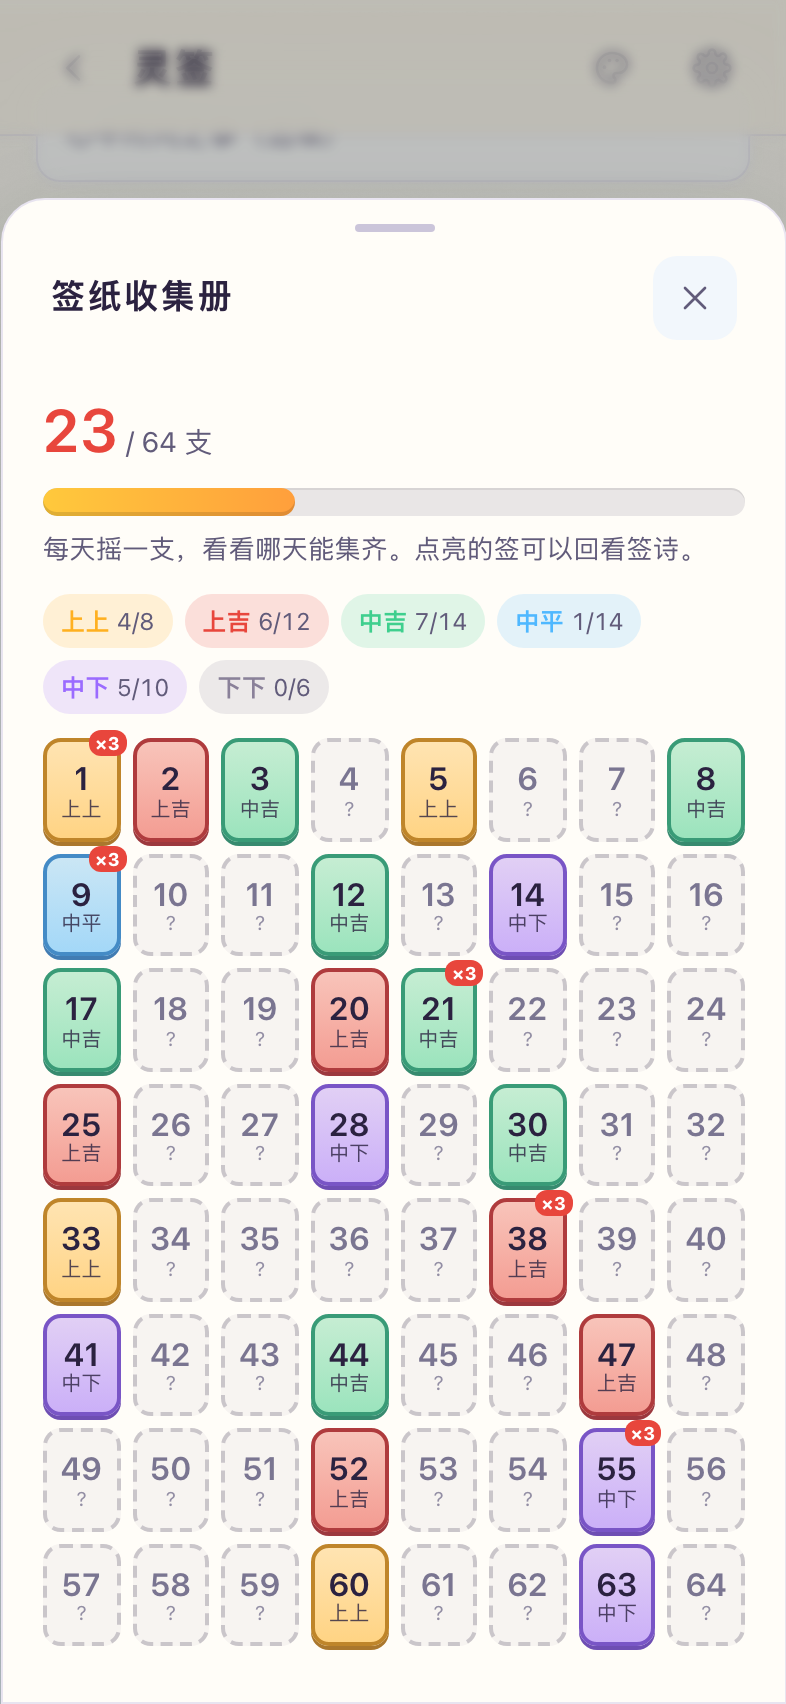
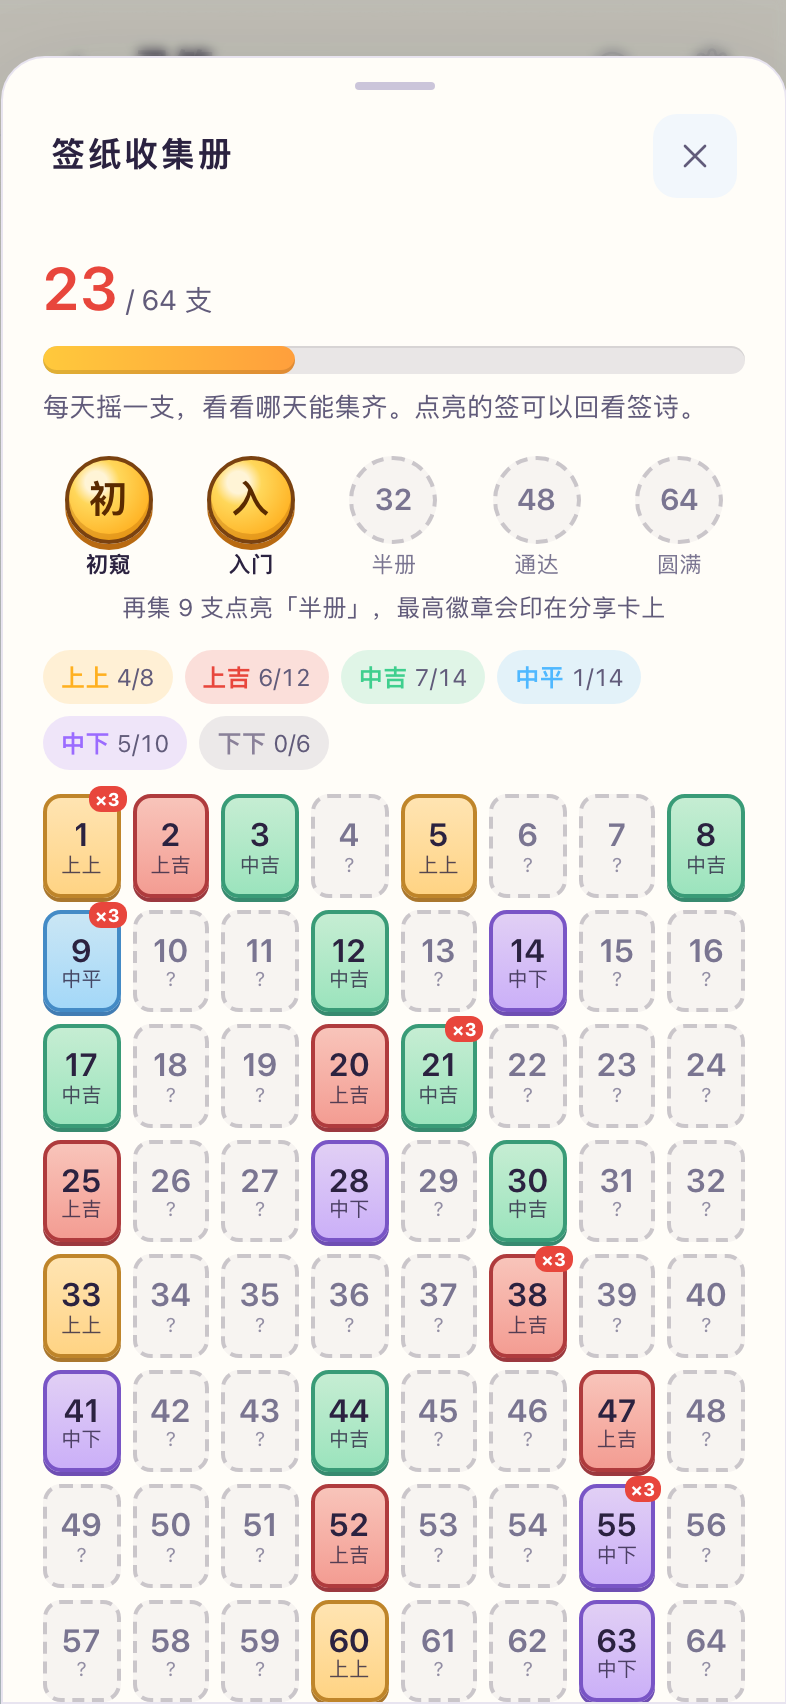
签册里程碑徽章：五档徽章、彩屑庆祝、分享卡印徽章
- album.js 新增 MILESTONES（8/16/32/48/64）、badgeOf、crossedMilestone、completedLevel
- 灵签页跨过里程碑时迸出金色彩屑并提示，集齐某一等级时提示
- 收集册顶部 5 枚徽章，新解锁的第一次打开时弹一下，集齐的等级标签加 ✓
- 所有分享卡右上角印「签册 · 名字」金章胶囊（集到 8 支起）
- 单元测试 4 项、e2e 1 项，album-shots 增加分享卡截图

Claude-Session: https://claude.ai/code/session_01RPCG4sUy8bX3S2uLgA1D94

diff --git a/src/modules/qian/view.js b/src/modules/qian/view.js
@@ -1,6 +1,6 @@
 import { createStickScene } from '../../ui/stick-scene.js';
 import { drawLot, getLot, lotLabel, formatPoemLines, levelMeta, createShakeMeter, shareText, isFated } from './core.js';
-import { normalizeAlbum, backfillAlbum, collectLot, albumStats } from './album.js';
+import { normalizeAlbum, backfillAlbum, collectLot, albumStats, crossedMilestone, completedLevel, badgeOf, MILESTONES } from './album.js';
 import {
   ITEM_KEYS, QUESTION_PLACEHOLDER, IDLE_HINT, SHAKING_HINT, SENSOR_HINT, DRAWN_HINT, UNFOLD_HINT, REVEALED_HINT,
   IDLE_BADGE, SHAKING_BADGE, SHEET_TITLE, FOOTER, TAKE_LABEL, SHAKE_LABEL, AGAIN_LABEL, SHARE_LABEL,
@@ -107,9 +107,20 @@ export function mount(container, ctx) {
     sound.play('chime'); haptic.success(); st.setBadge(`${lotLabel(lot)} · ${lot.level}`);
     const fated = isFated(history, lot.no);
     history = history.concat({ no: lot.no, question: asked, date: ctx.rng.dateKey() }).slice(-8); storage.set('history', history); renderHistory();
+    const before = album, prevCount = albumStats(before).count;
     const got = collectLot(album, lot.no, ctx.rng.dateKey()); album = got.album; storage.set('album', album); renderHistory();
-    if (fated) kit.toast(FATED_TOAST);
-    else if (got.fresh) { const s = albumStats(album); kit.toast(s.complete ? `收集册集齐了 · ${s.total} 支签` : `新签入册 · ${s.count}/${s.total}`); }
+    const s = albumStats(album);
+    const mile = got.fresh ? crossedMilestone(prevCount, s.count) : null;
+    const levelDone = got.fresh ? completedLevel(before, album) : null;
+    if (mile) {
+      // 里程碑：金星彩屑 + 徽章提示，下次打开收集册时新徽章跳一下。
+      storage.set('badgeNew', mile.id);
+      kit.confetti(st.el, { count: mile.stars, colors: ['#ffc93c', '#ff9f3c', '#fff4d6', '#e8463c', '#4fb8ff'], origin: { x: 0.5, y: 0.42 }, spread: 240 });
+      haptic.success();
+      kit.toast(s.complete ? `收集册集齐了 · 解锁「${mile.name}」徽章` : `解锁签册徽章「${mile.name}」 · 分享卡会带上它`, { duration: 2600 });
+    } else if (fated) kit.toast(FATED_TOAST);
+    else if (levelDone) kit.toast(`${levelDone}签全部集齐 · ${s.count}/${s.total}`, { duration: 2400 });
+    else if (got.fresh) kit.toast(`新签入册 · ${s.count}/${s.total}`);
     if (!await ritual.pause(gentle || instant ? 80 : 900)) return;
     phase = 'paper'; primary.setLabel(AGAIN_LABEL); lock(false); setGuide('tap', REVEALED_HINT);
     const result = lot, resultQuestion = asked;
@@ -160,7 +171,19 @@ export function mount(container, ctx) {
     if (busy || reading || albumSheet) return;
     haptic.tap();
     const s = albumStats(album);
-    const levels = h('div', { class: 'qn-album-levels' }, s.byLevel.map((x) => h('span', { class: `qn-album-level tone-${x.tone}` }, h('b', null, x.id), ` ${x.have}/${x.total}`)));
+    const levels = h('div', { class: 'qn-album-levels' }, s.byLevel.map((x) => h('span', { class: `qn-album-level tone-${x.tone}${x.total && x.have === x.total ? ' done' : ''}` }, h('b', null, x.id), ` ${x.have}/${x.total}`)));
+    // 徽章行：5 枚，点亮的是金色描边圆章，没到的是灰色虚线圆和所需数量。刚解锁的那枚跳一下。
+    const fresh = storage.get('badgeNew', '');
+    if (fresh) storage.set('badgeNew', '');
+    const next = MILESTONES.find((m) => s.count < m.at);
+    const badges = h('div', { class: 'qn-badges', attrs: { role: 'list', 'aria-label': '签册徽章' } }, MILESTONES.map((m) => {
+      const on = s.count >= m.at;
+      return h('span', { class: `qn-badge${on ? ' on' : ''}${on && m.id === fresh ? ' pop' : ''}`, dataset: { badge: m.id }, attrs: { role: 'listitem', 'aria-label': on ? `徽章「${m.name}」已点亮` : `集到 ${m.at} 支点亮「${m.name}」` } },
+        h('i', null, on ? m.name[0] : String(m.at)), h('small', null, m.name));
+    }));
+    const badgeNote = h('p', { class: 'qn-badge-note' }, next
+      ? `再集 ${next.at - s.count} 支点亮「${next.name}」${badgeOf(s.count) ? '，最高徽章会印在分享卡上' : ''}`
+      : '五枚徽章全部点亮，分享卡上印着「圆满」。');
     const grid = h('div', { class: 'qn-album-grid', attrs: { role: 'list' } });
     for (let no = 1; no <= s.total; no++) {
       const l = getLot(no), have = album[no];
@@ -174,7 +197,7 @@ export function mount(container, ctx) {
       h('div', null, h('b', null, `${s.count}`), h('span', null, ` / ${s.total} 支`)),
       h('span', { class: 'qn-album-bar big' }, h('i', { style: { width: `${(s.count / s.total) * 100}%` } })),
       h('p', null, s.complete ? '六十四支签全部集齐，诸事圆满。' : s.count ? '每天摇一支，看看哪天能集齐。点亮的签可以回看签诗。' : '还没有收到签。摇一支签，它就会收进册子里。'));
-    albumSheet = sheet({ title: '签纸收集册', content: [head, levels, grid], onClose: () => { albumSheet = null; } });
+    albumSheet = sheet({ title: '签纸收集册', content: [head, badges, badgeNote, levels, grid], onClose: () => { albumSheet = null; } });
     albumSheet.open();
   }
   // 从首页「收集册」入口进来：#/m/qian/album 直接打开册子。

diff --git a/src/ui/share-card.js b/src/ui/share-card.js
@@ -81,8 +81,27 @@ function roundRect(g, x, y, w, hh, r) {
 
 const font = (size, weight = 700) => `${weight} ${size}px ${FONT}`;
 
-/** 画分享卡，返回 1080 宽的画布（高度随文字变化，至少 1350，文字行数有上限所以不超过约 2100）。 */
-export function drawShareCard({ heading, sub = '', lines = [], image = null, watermark = true, date = new Date() }, doc = document) {
+/** 签册徽章：白底胶囊 + 金色描边圆章（徽章名首字）+「签册 · 名字」，右端对齐到 right。 */
+export function drawBadge(g, name, right, cy) {
+  g.font = font(30, 800);
+  const label = `签册 · ${name}`, tw = g.measureText(label).width;
+  const r = 30, w = r * 2 + 16 + tw + 26, x = right - w, top = cy - 36;
+  g.fillStyle = 'rgba(184,106,18,.55)'; roundRect(g, x, top + 5, w, 72, 36); g.fill();
+  g.fillStyle = '#fff'; roundRect(g, x, top, w, 72, 36); g.fill();
+  g.strokeStyle = '#ffc93c'; g.lineWidth = 4; roundRect(g, x, top, w, 72, 36); g.stroke();
+  const cx = x + 6 + r, ccy = cy;
+  g.fillStyle = '#b86a12'; g.beginPath(); g.arc(cx, ccy + 3, r - 2, 0, Math.PI * 2); g.fill();
+  const coin = g.createRadialGradient(cx - 9, ccy - 10, 2, cx, ccy, r); coin.addColorStop(0, '#fff4d6'); coin.addColorStop(.35, '#ffd75a'); coin.addColorStop(1, '#ffb020');
+  g.fillStyle = coin; g.beginPath(); g.arc(cx, ccy, r - 3, 0, Math.PI * 2); g.fill();
+  g.strokeStyle = '#7a4210'; g.lineWidth = 3.5; g.stroke();
+  g.fillStyle = '#5a2a00'; g.font = font(30, 800); g.textAlign = 'center'; g.textBaseline = 'middle';
+  g.fillText([...name][0], cx, ccy + 1);
+  g.textAlign = 'left'; g.fillStyle = C.ink; g.fillText(label, cx + r + 14, cy);
+  return w;
+}
+
+/** 画分享卡，返回 1080 宽的画布（高度随文字变化，至少 1350，文字行数有上限所以不超过约 2100）。badge 是签册徽章 { name }。 */
+export function drawShareCard({ heading, sub = '', lines = [], image = null, watermark = true, badge = null, date = new Date() }, doc = document) {
   const canvas = doc.createElement('canvas');
   const g = canvas.getContext('2d');
   const cardX = 48, cardW = CARD_W - 96, inner = cardW - 96;
@@ -113,8 +132,11 @@ export function drawShareCard({ heading, sub = '', lines = [], image = null, wat
   g.fillStyle = btn; roundRect(g, PAD, 64, bw, 84, 28); g.fill();
   g.fillStyle = '#fff'; g.textBaseline = 'middle'; g.fillText(brand, PAD + 32, 107);
   g.font = font(32, 600); g.fillStyle = C.soft; g.textAlign = 'right';
-  g.fillText(`${date.getFullYear()}.${date.getMonth() + 1}.${date.getDate()}`, CARD_W - PAD, 107);
+  const dateText = `${date.getFullYear()}.${date.getMonth() + 1}.${date.getDate()}`;
+  g.fillText(dateText, CARD_W - PAD, 107);
+  const dateW = g.measureText(dateText).width;
   g.textAlign = 'left';
+  if (badge?.name) drawBadge(g, badge.name, CARD_W - PAD - dateW - 28, 107);
 
   // 白卡 + 厚度边
   g.fillStyle = C.edge; roundRect(g, cardX, cardY + 10, cardW, cardH, 48); g.fill();
@@ -173,7 +195,7 @@ export function drawShareCard({ heading, sub = '', lines = [], image = null, wat
 const RESULT_TEXT = { shared: '已分享', copied: '已复制', saved: '图片已保存', failed: '分享已取消' };
 
 /** 预览抽屉：分享图片 / 只分享文字。免费版有「开通 Pro 去水印」。 */
-export function openShareCard(platform, text, { title = '分享', image: art = null } = {}) {
+export function openShareCard(platform, text, { title = '分享', image: art = null, badge = null } = {}) {
   const parsed = parseShare(text);
   // 玩法自带配图（塔罗牌面、黄历宜忌等）优先，没有再拍当前器物画面
   let image = art ? null : captureStage();
@@ -182,7 +204,7 @@ export function openShareCard(platform, text, { title = '分享', image: art = n
   let url = '';
   const img = h('img', { class: 'share-card-img', attrs: { alt: `分享卡：${parsed.heading}` } });
   const render = () => {
-    try { url = drawShareCard({ ...parsed, image, watermark: !isPro() }).toDataURL('image/png'); img.src = url; }
+    try { url = drawShareCard({ ...parsed, image, badge, watermark: !isPro() }).toDataURL('image/png'); img.src = url; }
     catch (e) { console.warn('[share] 分享卡生成失败', e); url = ''; }
   };
   render();

diff --git a/src/styles/collect.css b/src/styles/collect.css
@@ -28,3 +28,16 @@
 .home-streak .qn-album-bar { height: 8px; }
 .home-streak-album { flex: none; font: 700 12px var(--font-sans); color: var(--text-2); font-variant-numeric: tabular-nums; }
 .home-streak > svg { flex: none; color: var(--text-3); }
+/* 签册徽章：5 枚一行，点亮的是金色描边圆章 + 厚度边，没到的是虚线圆和所需数量 */
+.qn-badges { display: grid; grid-template-columns: repeat(5, minmax(0, 1fr)); gap: 6px; margin: 14px 0 4px; }
+.qn-badge { display: flex; flex-direction: column; align-items: center; gap: 4px; min-width: 0; }
+.qn-badge i { display: grid; place-items: center; width: 44px; height: 44px; border-radius: 50%; font: 800 15px/1 var(--font-round, var(--font-sans)); font-style: normal; font-variant-numeric: tabular-nums; color: var(--text-3); border: 2px dashed color-mix(in srgb, var(--text) 22%, transparent); background: color-mix(in srgb, var(--text) 4%, transparent); }
+.qn-badge small { font-size: 11px; line-height: 1; color: var(--text-3); white-space: nowrap; }
+.qn-badge.on i { font-size: 19px; color: #5a2a00; border: 2.5px solid #7a4210; background: radial-gradient(circle at 34% 28%, #fff4d6 0 14%, #ffd75a 30%, #ffb020 78%); box-shadow: 0 3px 0 #b86a12, inset 0 -3px 0 rgba(160,80,0,.25); }
+.qn-badge.on small { color: var(--text); font-weight: 800; }
+.qn-badge.pop i { animation: qn-badge-pop .7s cubic-bezier(.34,1.56,.64,1) .25s both; }
+@keyframes qn-badge-pop { 0% { transform: scale(.4) rotate(-20deg); } 60% { transform: scale(1.18) rotate(6deg); } 100% { transform: scale(1) rotate(0); } }
+@media (prefers-reduced-motion: reduce) { .qn-badge.pop i { animation: none; } }
+.qn-badge-note { margin: 8px 0 0; font-size: 12px; line-height: 1.5; color: var(--text-2); text-align: center; }
+.qn-album-level.done { box-shadow: 0 0 0 1.5px var(--tone); }
+.qn-album-level.done::after { content: ' ✓'; color: var(--tone); font-weight: 800; }

diff --git a/src/modules/qian/album.js b/src/modules/qian/album.js
@@ -46,3 +46,33 @@ export function albumStats(album, lots = LOTS) {
   }
   return { count, total: lots.length, byLevel, complete: count === lots.length };
 }
+
+// 里程碑：集到一定数量点亮一枚签册徽章。奖励只是看得见的荣誉（徽章印在所有分享卡上、结果金星加量），
+// 不送任何付费内容，免得和内购冲突。
+export const MILESTONES = [
+  { at: 8, id: 'chu', name: '初窥', stars: 24 },
+  { at: 16, id: 'ru', name: '入门', stars: 30 },
+  { at: 32, id: 'ban', name: '半册', stars: 36 },
+  { at: 48, id: 'tong', name: '通达', stars: 42 },
+  { at: 64, id: 'man', name: '圆满', stars: 54 },
+];
+
+/** 已收数量对应的最高徽章，没到第一档返回 null。 */
+export function badgeOf(count, list = MILESTONES) {
+  let got = null;
+  for (const m of list) if (count >= m.at) got = m;
+  return got;
+}
+
+/** 从 prev 支收到 next 支时新跨过的里程碑（一次只会跨一档，防御起见取最高的）。 */
+export function crossedMilestone(prevCount, nextCount, list = MILESTONES) {
+  const a = badgeOf(prevCount, list), b = badgeOf(nextCount, list);
+  return b && b !== a ? b : null;
+}
+
+/** 收进这支签后刚好集齐的等级（如「上上」），没有返回 null。 */
+export function completedLevel(prevAlbum, nextAlbum, lots = LOTS) {
+  const before = albumStats(prevAlbum, lots).byLevel, after = albumStats(nextAlbum, lots).byLevel;
+  const hit = after.find((x, i) => x.total && x.have === x.total && before[i].have < before[i].total);
+  return hit ? hit.id : null;
+}

diff --git a/src/ui/app.js b/src/ui/app.js
@@ -14,7 +14,7 @@ import { routeFromUrl } from './deeplink.js';
 import { versionText } from './version.js';
 import { openShareCard } from './share-card.js';
 import { canUseTheme, startSkinTryOn, isFreeTheme } from './skins.js';
-import { albumStats, normalizeAlbum, ALBUM_TOTAL } from '../modules/qian/album.js';
+import { albumStats, normalizeAlbum, badgeOf, ALBUM_TOTAL } from '../modules/qian/album.js';
 import { dayKey } from '../platform/quota.js';
 
 export const APP_NAME = '来感觉';
@@ -267,7 +267,7 @@ export function startApp(root) {
       sound: platform.sound,
       storage: storage.namespace(meta.id),
       profile,
-      share: (text, opts) => openShareCard(platform, text, opts),
+      share: (text, opts) => openShareCard(platform, text, { badge: albumBadge(), ...opts }),
       navigate,
       toast,
       setTitle(text) {
@@ -386,6 +386,12 @@ export function startApp(root) {
       ),
     );
     return el;
+  }
+
+  // 签册最高徽章：所有玩法的分享卡都印上它（集到 8 支起）。
+  function albumBadge() {
+    try { return badgeOf(albumStats(normalizeAlbum(storage.namespace('qian').get('album', null))).count); }
+    catch (e) { console.error('[album]', e); return null; }
   }
 
   // 连续天数 + 签纸收集册进度：每天回来的小理由，点开直接到收集册。

diff --git a/docs/claude-plan/run-log.md b/docs/claude-plan/run-log.md
@@ -478,3 +478,33 @@
 - 断签提醒要不要做（需要新增本地通知权限，App 审核会看通知用途说明）。
 
 推送结果：提交 d6661ac 推送成功。
+
+## 第 16 轮 · 2026-10-24 04:55 UTC 起（PDT 10-23 21:55，定时任务）
+
+开始状态：工作区干净，与远端一致，.lock 为 idle。
+
+完成的待办：
+- ✅ P2 收集册里程碑奖励。奖励只给荣誉，不送付费内容，不去水印（monetization.md 第 2 节已注明）。
+  - `src/modules/qian/album.js`：`MILESTONES` 五档（8 初窥、16 入门、32 半册、48 通达、64 圆满），`badgeOf(count)` 取最高徽章，`crossedMilestone(prev, next)` 只在刚到档那一支返回，`completedLevel(before, after)` 在补上某一等级最后一支时返回该等级。
+  - 灵签页：新签跨过里程碑时舞台迸出金色彩屑（档位越高越多，系统减少动态效果时不出），震动一下，提示「解锁签册徽章「入门」 · 分享卡会带上它」。集齐某一等级时提示「上上签全部集齐 · n/64」。
+  - 收集册抽屉：进度条下一行 5 枚徽章，点亮的是金色描边圆章带厚度边，没到的是虚线圆和所需数量。刚解锁的那枚第一次打开收集册时弹一下，之后不再弹。下面一行「再集 n 支点亮「x」，最高徽章会印在分享卡上」。集齐的等级标签加描边和 ✓。
+  - 分享卡：`src/ui/share-card.js` 新增 `drawBadge`，所有玩法的分享卡右上角、日期左边印一枚「签册 · 入门」金章胶囊（集到 8 支起才有）。`src/ui/app.js` 的 `ctx.share` 自动带上最高徽章。
+  - `tests/album.test.mjs` 新增 4 项（徽章档位、跨档只触发一次、集齐等级、分享卡徽章右端对齐），`tests/e2e/album.e2e.mjs` 新增 1 项（7 支起摇到第 8 支，提示里有「初窥」，收集册里徽章点亮并弹一下，第二次打开不再弹，徽章行不出界）。
+  - `scripts/album-shots.mjs` 增加徽章与分享卡截图，并把分享卡原图单独存下来。
+
+检查结果：
+- `npm run build` 通过，`npm test` 385 项全部通过（新增 4 项）。
+- `npm run e2e` 32 项全部通过（新增里程碑 1 项，整套约 7.5 分钟）。
+- 截图（docs/claude-plan/screenshots/，已用 git rm 删掉上一轮的截图）：宣纸与玄墨两套皮肤，393×852 与 430×932，各拍首页、灵签页入口、收集册抽屉、分享卡预览，另存两张分享卡原图，共 18 张。脚本检查无横向溢出、无截断、无报错。逐张过目：徽章行 5 枚在 393 宽下排得开，金章在深色皮肤下也醒目，分享卡顶部「来感觉」品牌章、徽章胶囊、日期三者不挤。第一版提示句用「 · 」连接显得空，改为逗号并把提示行与徽章拉开 8px 后重拍。
+
+遗留问题：
+- 财运滚动白带（P2）本轮没有动，需要真机录屏确认，无头浏览器里查不出结论。
+- 首页连续天数行还没显示徽章，空间不够，暂不加。
+
+下一轮计划：P2 剩下的主屏小组件与断签提醒都要新增原生能力（小组件要 Xcode 加 Widget Extension 目标，断签提醒要通知权限），风险较大。下一轮先复查各玩法结果条与分享卡在 430 宽下的观感，再评估小组件的最小可行做法（只做每日一签）。
+
+待 Peyton 决定：
+- 在 Xcode 里选 App 方案点一次运行，看付费卡与皮肤单买卡的本地化价格（StoreKit 配置已挂好）。
+- 年龄分级按 13+ 填写、新商店截图、3 个皮肤内购与价格档位、GitHub Pages 合并时机、TestFlight 是否每轮自动上传，同前几轮。
+- 断签提醒要不要做（需要通知权限）。
+- 徽章名字（初窥、入门、半册、通达、圆满）是否满意。

diff --git a/docs/claude-plan/TODO.md b/docs/claude-plan/TODO.md
@@ -67,7 +67,7 @@ P0 上架必需 · P1 影响付费转化 · P2 体验打磨。完成后打勾并
 - [x] 生辰信息一次填写全局复用 ✅ 2026-10-23（第 14 轮，查下来姻缘、财运、事业已共用 `profile`，只有八字页只读自己的存档，在别处填过生辰后打开八字仍是默认的 1995 年。改为八字没存过生辰时带入共享生辰，八字自己存过的优先，`tests/e2e/profile.e2e.mjs` 2 项）
 - [ ] 主屏小组件（每日签、黄历）
 - [x] **连续打卡与签纸收集册** ✅ 2026-10-24（第 15 轮，`src/modules/qian/album.js` 记下每支抽到过的灵签与次数，旧的最近 8 条历史自动补录。灵签页历史下方一条金色入口「签纸收集册 ▬ n/64」，抽屉里 8 列签格按等级上色（上上金、上吉红、中吉绿、中平蓝、中下紫、下下灰），多次抽到的角上标 ×n，点亮的签可回看签诗，没抽到的是虚线格。新签入册时提示「新签入册 · n/64」。首页黄历下方一行「连续 N 天 · 7 颗打卡点 · 签册 n/64」，点开直接打开收集册。连续天数改为任何玩法出结果都算来过，原来只有带深度解读的结果才算。收集册对所有人免费，用来拉留存，不写进 Pro 权益。`tests/album.test.mjs` 5 项，`tests/e2e/album.e2e.mjs` 3 项，`scripts/album-shots.mjs` 截图）
-- [ ] **收集册里程碑奖励**（第 15 轮新增，P2）：集齐某一等级或 16 / 32 / 64 支时给一个看得见的小奖励（结果条金星加量、分享卡专属边框等），不送付费内容以免和内购冲突。完成标准：有单元测试，截图过目。
+- [x] **收集册里程碑奖励** ✅ 2026-10-24（第 16 轮，`album.js` 新增 `MILESTONES`（8 初窥、16 入门、32 半册、48 通达、64 圆满）、`badgeOf`、`crossedMilestone`、`completedLevel`。跨过里程碑时舞台迸出金色彩屑（档位越高越多）并提示「解锁签册徽章「x」 · 分享卡会带上它」，集齐某一等级时提示「上上签全部集齐」。收集册顶部一行 5 枚徽章，点亮的是金色描边厚边圆章，没到的是虚线圆和所需数量，刚解锁的那枚第一次打开时弹一下，下面一行「再集 n 支点亮「x」」。集齐的等级标签加描边和 ✓。所有玩法的分享卡右上角在日期左边印「签册 · x」金章胶囊。`tests/album.test.mjs` 新增 4 项，`tests/e2e/album.e2e.mjs` 新增 1 项）（第 15 轮新增，P2）：集齐某一等级或 16 / 32 / 64 支时给一个看得见的小奖励（结果条金星加量、分享卡专属边框等），不送付费内容以免和内购冲突。完成标准：有单元测试，截图过目。
 - [ ] **连续天数断签提醒**（第 15 轮新增，P2，依赖本地通知插件 `@capacitor/local-notifications`）：用户主动开启后，每晚 9 点前还没来过时发一条本地通知。完成标准：设置页开关默认关闭，模拟器上收到一次通知。
 
 - [x] **App 内显示版本号** ✅ 2026-10-22（Peyton 要求，设置页最底部一行「版本 1.0.0 · 第 N 版 · 构建时间 · 提交」，N 是 git 提交数只增不减，`tests/version.test.mjs` 2 项）

diff --git a/docs/claude-plan/monetization.md b/docs/claude-plan/monetization.md
@@ -25,6 +25,8 @@
 
 第 15 轮：连续天数与签纸收集册对所有人免费，作用是给每天回来一个理由（留存），不列入 Pro 权益。
 
+第 16 轮：收集册里程碑（8 / 16 / 32 / 48 / 64 支）点亮签册徽章，奖励只有荣誉：彩屑庆祝、收集册里的金色徽章、所有分享卡顶部印上最高徽章。不送皮肤、解读次数等付费内容，也不去掉水印，免得和内购冲突。分享卡带徽章还能让晒图的人多一个炫耀点，顺带拉新。
+
 第 9 轮核对：按生辰的个性化运势、历史记录目前对所有人免费，付费卡与商店描述暂不把它们列为 Pro 权益，以免描述与实际不符。
 
 ## 3. 价格档位（产品 ID 规划）
